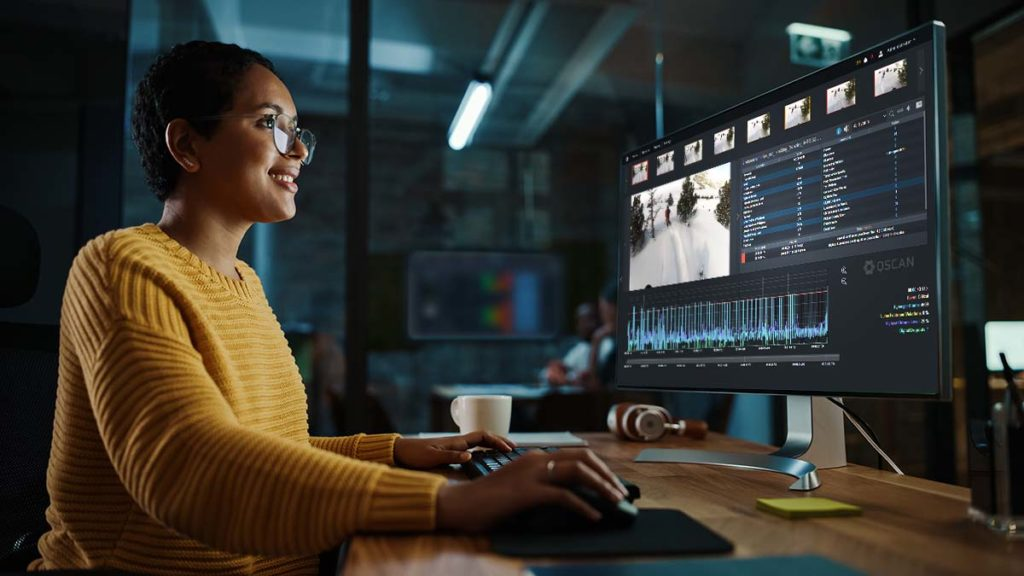
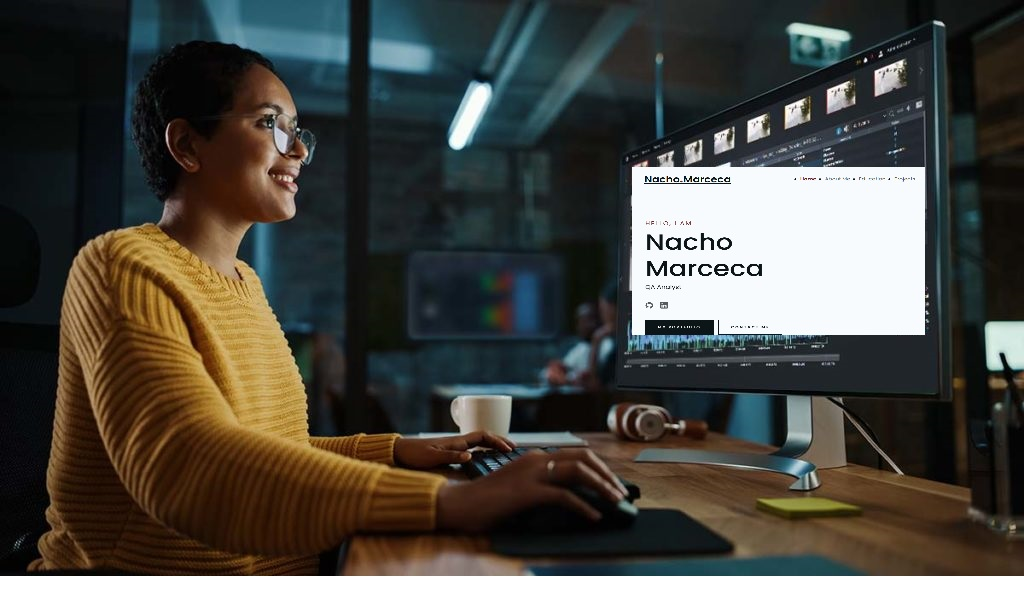
Fixed hero img

diff --git a/index.html b/index.html
@@ -95,8 +95,9 @@
                 <a href="#projects" class="btn">My Portfolio</a>
                 <a href="#contact" class="btn btn-white">Contact Me</a>
               </div>
+              </div>
             </div>
-            <!--<div class="hero-img">
+ <!--           <div class="hero-img">
               <img
                 src="img/hero/hero.gif"
                 alt="Picture coming soon"
@@ -238,7 +239,11 @@
   </main> -->
 
   <footer>
-    <p>&copy; All rights reserved.</p>
+      <img
+                src="img/hero/hero.gif"
+                alt="Picture coming soon"
+        />
+   <p>&copy; All rights reserved.</p> 
   </footer>
 
 </body>

diff --git a/css/main.css b/css/main.css
@@ -245,7 +245,7 @@ h5 {
 }
 
 .hero-img {
-  flex: 0 0 30.6667%;
+  flex: 0 0 41.6667%;
   text-align: right !important;
   padding: 0 1.5rem;
 }
